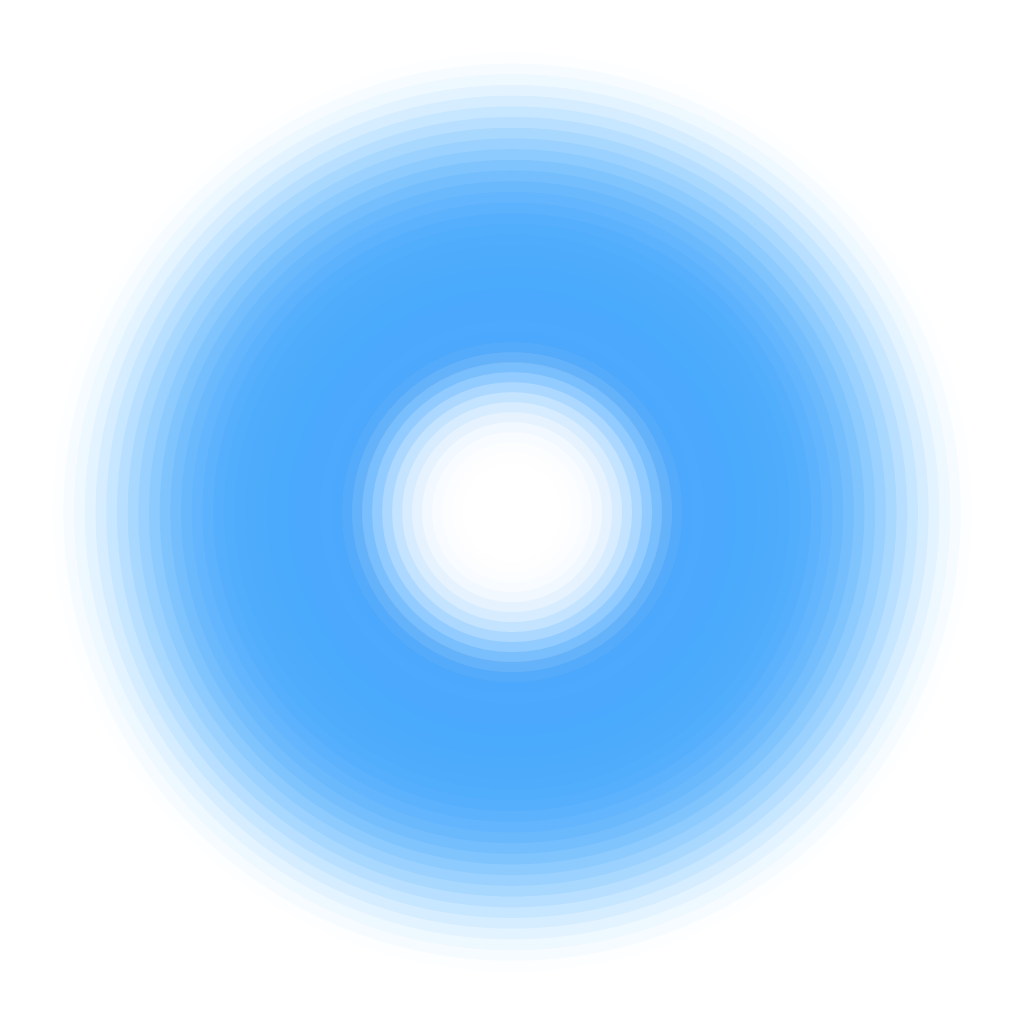
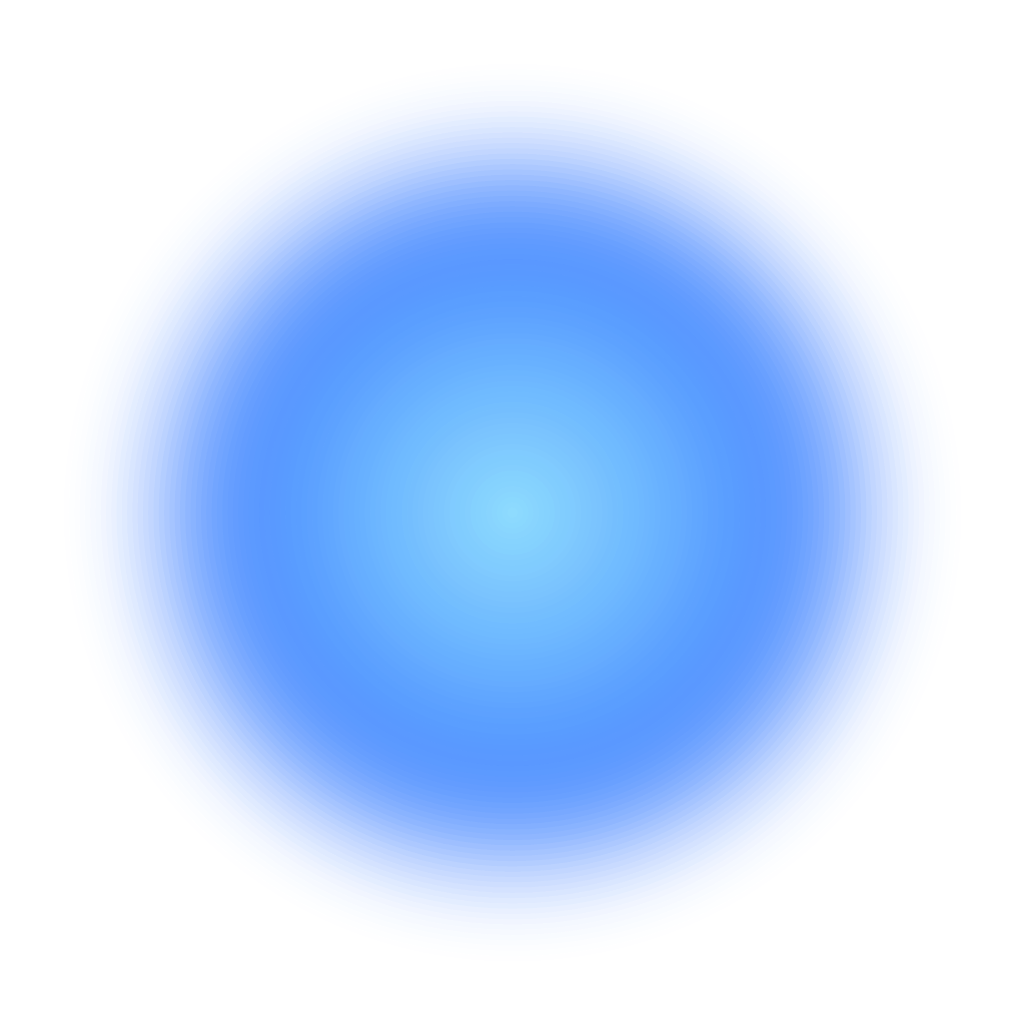
Restyle NPC reveal toward cinematic rarity burst

diff --git a/assets/gui/npc_reveal/ASSET_MANIFEST.md b/assets/gui/npc_reveal/ASSET_MANIFEST.md
@@ -1,30 +1,30 @@
 # NPC Reveal GUI Asset Manifest
 
-These assets are decorative layers only. Do not bake dynamic text, buttons, NPC names, rarity labels, or click logic into these images. Upload the PNGs to Roblox, then paste the IDs into `ReplicatedStorage/GUI/NPCRevealAssets/AssetIds`.
+These assets are decorative layers only. Do not bake dynamic text, buttons, NPC names, rarity labels, or click logic into these images. The current style is a full-screen cinematic simulator reveal: dark vignette, purple rarity rays, shadow NPC silhouettes, big real Roblox text, and a separate green Continue button. Upload the PNGs to Roblox, then paste the IDs into `ReplicatedStorage/GUI/NPCRevealAssets/AssetIds`.
 
 | Filename | Purpose | Roblox object | Suggested size/scale | Tintable | Reveal usage | Transparency notes |
 |---|---|---|---|---|---|---|
-| `reveal_panel_bg.png` | Premium rounded main reveal panel background | `ImageLabel` | Stage size, around 74% x 66% screen | No | Main reveal container decoration | Transparent corners |
-| `reveal_panel_shadow.png` | Soft shadow behind the main panel | `ImageLabel` | Slightly larger than panel | Yes, black/rarity tint optional | Behind reveal panel | Transparent fade edges |
-| `npc_card_bg.png` | Glossy rounded NPC roll card background | `ImageLabel` | Each carousel card | No | Card base behind ViewportFrame | Transparent corners |
+| `reveal_panel_bg.png` | Subtle purple stage plate, not a full UI panel | `ImageLabel` | Center screen, around 78% x 46% | No | Low-opacity cinematic stage depth | Transparent corners/edges |
+| `reveal_panel_shadow.png` | Wide purple shadow/glow behind the stage | `ImageLabel` | Around 95% x 62% screen | Yes, black/rarity tint optional | Behind the silhouettes and final NPC | Transparent fade edges |
+| `npc_card_bg.png` | Semi-transparent glossy silhouette card base | `ImageLabel` | Each carousel card | No | Light backing for roll silhouettes | Transparent corners |
 | `npc_card_outline.png` | Decorative card outline layer | `ImageLabel` | Same as card | Yes | Rarity-colored outline overlay | Mostly transparent except outline |
-| `npc_card_shadow.png` | Card drop shadow | `ImageLabel` | Slightly larger than card | Yes, black tint | Behind every NPC card | Soft transparent edges |
-| `silhouette_overlay.png` | Generic mystery silhouette/glow | `ImageLabel` | Over shadow ViewportFrames | Yes, dark tint | Roll phase unknown NPC overlay | Transparent outside silhouette |
+| `npc_card_shadow.png` | Soft oval card/silhouette floor shadow | `ImageLabel` | Slightly larger than card | Yes, black tint | Behind every roll silhouette | Soft transparent edges |
+| `silhouette_overlay.png` | Generic mystery silhouette aura | `ImageLabel` | Over shadow ViewportFrames | Yes, dark tint | Roll phase unknown NPC overlay | Transparent outside aura |
 | `question_mark_glow.png` | Glowing mystery question mark | `ImageLabel` | Center of shadow cards | Yes | Roll phase unknown marker | Transparent background |
-| `center_spotlight.png` | Soft radial glow behind final NPC | `ImageLabel` | Center stage, large | Yes | Final selection glow build-up | Radial transparent edge |
-| `reveal_burst.png` | Radial rays for reveal burst | `ImageLabel` | Behind final card/NPC | Yes | Reveal burst, rotate/tween | Transparent between rays |
-| `sparkle_particle_1.png` | Star sparkle particle | `ImageLabel` | 12-28 px | Yes | Animated reveal sparkles | Transparent background |
-| `sparkle_particle_2.png` | Plus sparkle particle | `ImageLabel` | 10-24 px | Yes | Animated reveal sparkles | Transparent background |
-| `sparkle_particle_3.png` | Soft oval sparkle particle | `ImageLabel` | 10-26 px | Yes | Animated reveal sparkles | Transparent background |
+| `center_spotlight.png` | Bright white/purple center glow behind final NPC | `ImageLabel` | Center screen, around 92% x 92% | Yes | Final selection glow build-up | Radial transparent edge |
+| `reveal_burst.png` | Large purple radial rays like a reward explosion | `ImageLabel` | Full-screen center burst | Yes | Ambient roll energy and final burst, rotate/tween | Transparent between rays |
+| `sparkle_particle_1.png` | Diamond shard particle | `ImageLabel` | 12-34 px | Yes | Animated reveal confetti/sparkles | Transparent background |
+| `sparkle_particle_2.png` | Tilted rectangle shard particle | `ImageLabel` | 10-32 px | Yes | Animated reveal confetti/sparkles | Transparent background |
+| `sparkle_particle_3.png` | Triangle shard particle | `ImageLabel` | 10-32 px | Yes | Animated reveal confetti/sparkles | Transparent background |
 | `rarity_glow_common.png` | Common rarity glow layer | `ImageLabel` | Behind final NPC/card | Optional | Common final reveal glow | Radial transparent edge |
 | `rarity_glow_rare.png` | Rare rarity glow layer | `ImageLabel` | Behind final NPC/card | Optional | Rare final reveal glow | Radial transparent edge |
 | `rarity_glow_epic.png` | Epic rarity glow layer | `ImageLabel` | Behind final NPC/card | Optional | Epic final reveal glow | Radial transparent edge |
 | `rarity_glow_legendary.png` | Legendary rarity glow layer | `ImageLabel` | Behind final NPC/card | Optional | Legendary final reveal glow | Radial transparent edge |
 | `rarity_glow_mythic.png` | Mythic rarity glow layer | `ImageLabel` | Behind final NPC/card | Optional | Mythic final reveal glow | Radial transparent edge |
 | `rarity_glow_secret.png` | Secret/Godly cosmic glow layer | `ImageLabel` | Behind final NPC/card | Optional | Secret/Godly final reveal glow | Radial transparent edge |
-| `continue_button_bg.png` | Continue button background only | `ImageButton` or child `ImageLabel` | Continue button bounds | No | Button visual layer; real button text remains Roblox text | Transparent outside pill |
+| `continue_button_bg.png` | Chunky green Continue button background only | `ImageButton` or child `ImageLabel` | Continue button bounds | No | Button visual layer; real button text remains Roblox text | Transparent outside pill |
 | `continue_button_hover_glow.png` | Continue hover/press glow | `ImageLabel` | Slightly larger than button | Yes | Hover/press feedback layer | Soft transparent edge |
-| `title_banner_bg.png` | Title banner decoration | `ImageLabel` | Behind title text | No | Entry/title area | Transparent outside banner |
+| `title_banner_bg.png` | Soft purple title glow plate, no text | `ImageLabel` | Behind title text | Yes | Entry/title area | Transparent outside glow |
 | `white_flash.png` | Soft reveal flash | `ImageLabel` | Full screen or stage overlay | Yes | Reveal burst moment | Transparent radial edge |
 | `dark_vignette.png` | Full-screen cinematic vignette | `ImageLabel` | Full screen | Yes, dark tint optional | Backdrop behind reveal | Transparent center/soft dark edges |
 
